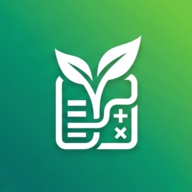
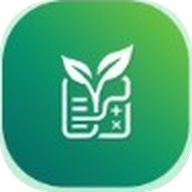
Add files via upload

diff --git a/sw.js b/sw.js
@@ -1,5 +1,28 @@
-const CACHE='fertcalc-v3-20260821-3-oldicon';
-const ASSETS=['./','./index.html','./manifest.webmanifest','./icon-192.png','./icon-512.png','./icon-maskable-512.png'];
-self.addEventListener('install',e=>e.waitUntil(caches.open(CACHE).then(c=>c.addAll(ASSETS)).then(()=>self.skipWaiting())));
-self.addEventListener('activate',e=>e.waitUntil(caches.keys().then(keys=>Promise.all(keys.filter(k=>k!==CACHE).map(k=>caches.delete(k)))).then(()=>self.clients.claim())));
-self.addEventListener('fetch',e=>{if(e.request.method!=='GET')return;e.respondWith(fetch(e.request).then(r=>{const copy=r.clone();caches.open(CACHE).then(c=>c.put(e.request,copy));return r}).catch(()=>caches.match(e.request).then(r=>r||caches.match('./index.html'))))});
+const CACHE='fertcalc-v3-3-webapk-20260821';
+const BASE='/ferticalc_V6/';
+const ASSETS=[
+  BASE,
+  BASE+'index.html',
+  BASE+'manifest.webmanifest',
+  BASE+'icon-192.png',
+  BASE+'icon-512.png',
+  BASE+'icon-maskable-512.png'
+];
+self.addEventListener('install',event=>{
+  event.waitUntil(caches.open(CACHE).then(cache=>cache.addAll(ASSETS)).then(()=>self.skipWaiting()));
+});
+self.addEventListener('activate',event=>{
+  event.waitUntil(caches.keys().then(keys=>Promise.all(keys.filter(k=>k!==CACHE).map(k=>caches.delete(k)))).then(()=>self.clients.claim()));
+});
+self.addEventListener('fetch',event=>{
+  if(event.request.method!=='GET') return;
+  if(event.request.mode==='navigate'){
+    event.respondWith(fetch(event.request).catch(()=>caches.match(BASE+'index.html')));
+    return;
+  }
+  event.respondWith(caches.match(event.request).then(cached=>cached||fetch(event.request).then(response=>{
+    const copy=response.clone();
+    caches.open(CACHE).then(cache=>cache.put(event.request,copy));
+    return response;
+  })));
+});

diff --git a/index.html b/index.html
@@ -6,9 +6,9 @@
   <meta name="theme-color" content="#22b86b" />
   <meta name="apple-mobile-web-app-capable" content="yes" />
   <meta name="apple-mobile-web-app-status-bar-style" content="default" />
-  <link rel="manifest" href="manifest.webmanifest" />
-  <link rel="icon" href="icon-192.png" />
-  <link rel="apple-touch-icon" href="icon-192.png" />
+  <link rel="manifest" href="/ferticalc_V6/manifest.webmanifest" />
+  <link rel="icon" type="image/png" sizes="192x192" href="/ferticalc_V6/icon-192.png" />
+  <link rel="apple-touch-icon" sizes="192x192" href="/ferticalc_V6/icon-192.png" />
   <title>FertCalc</title>
   <style>
     :root{
@@ -328,7 +328,7 @@ let deferredInstallPrompt=null;
 window.addEventListener('beforeinstallprompt',e=>{e.preventDefault();deferredInstallPrompt=e;const b=document.getElementById('installPwaBtn');if(b)b.style.display='inline-flex'});
 document.getElementById('installPwaBtn')?.addEventListener('click',async()=>{if(!deferredInstallPrompt){toast('Use o menu do navegador e escolha “Instalar app”.');return}deferredInstallPrompt.prompt();try{await deferredInstallPrompt.userChoice}catch(e){}deferredInstallPrompt=null;document.getElementById('installPwaBtn').style.display='none'});
 window.addEventListener('appinstalled',()=>{deferredInstallPrompt=null;const b=document.getElementById('installPwaBtn');if(b)b.style.display='none';toast('FertCalc instalado como aplicativo.')});
-if('serviceWorker' in navigator)window.addEventListener('load',()=>navigator.serviceWorker.register('./sw.js').catch(()=>{}));
+if('serviceWorker' in navigator)window.addEventListener('load',()=>navigator.serviceWorker.register('/ferticalc_V6/sw.js',{scope:'/ferticalc_V6/'}).catch(()=>{}));
 render();switchView(state.lastView||'formula');
 </script>
 </body>
